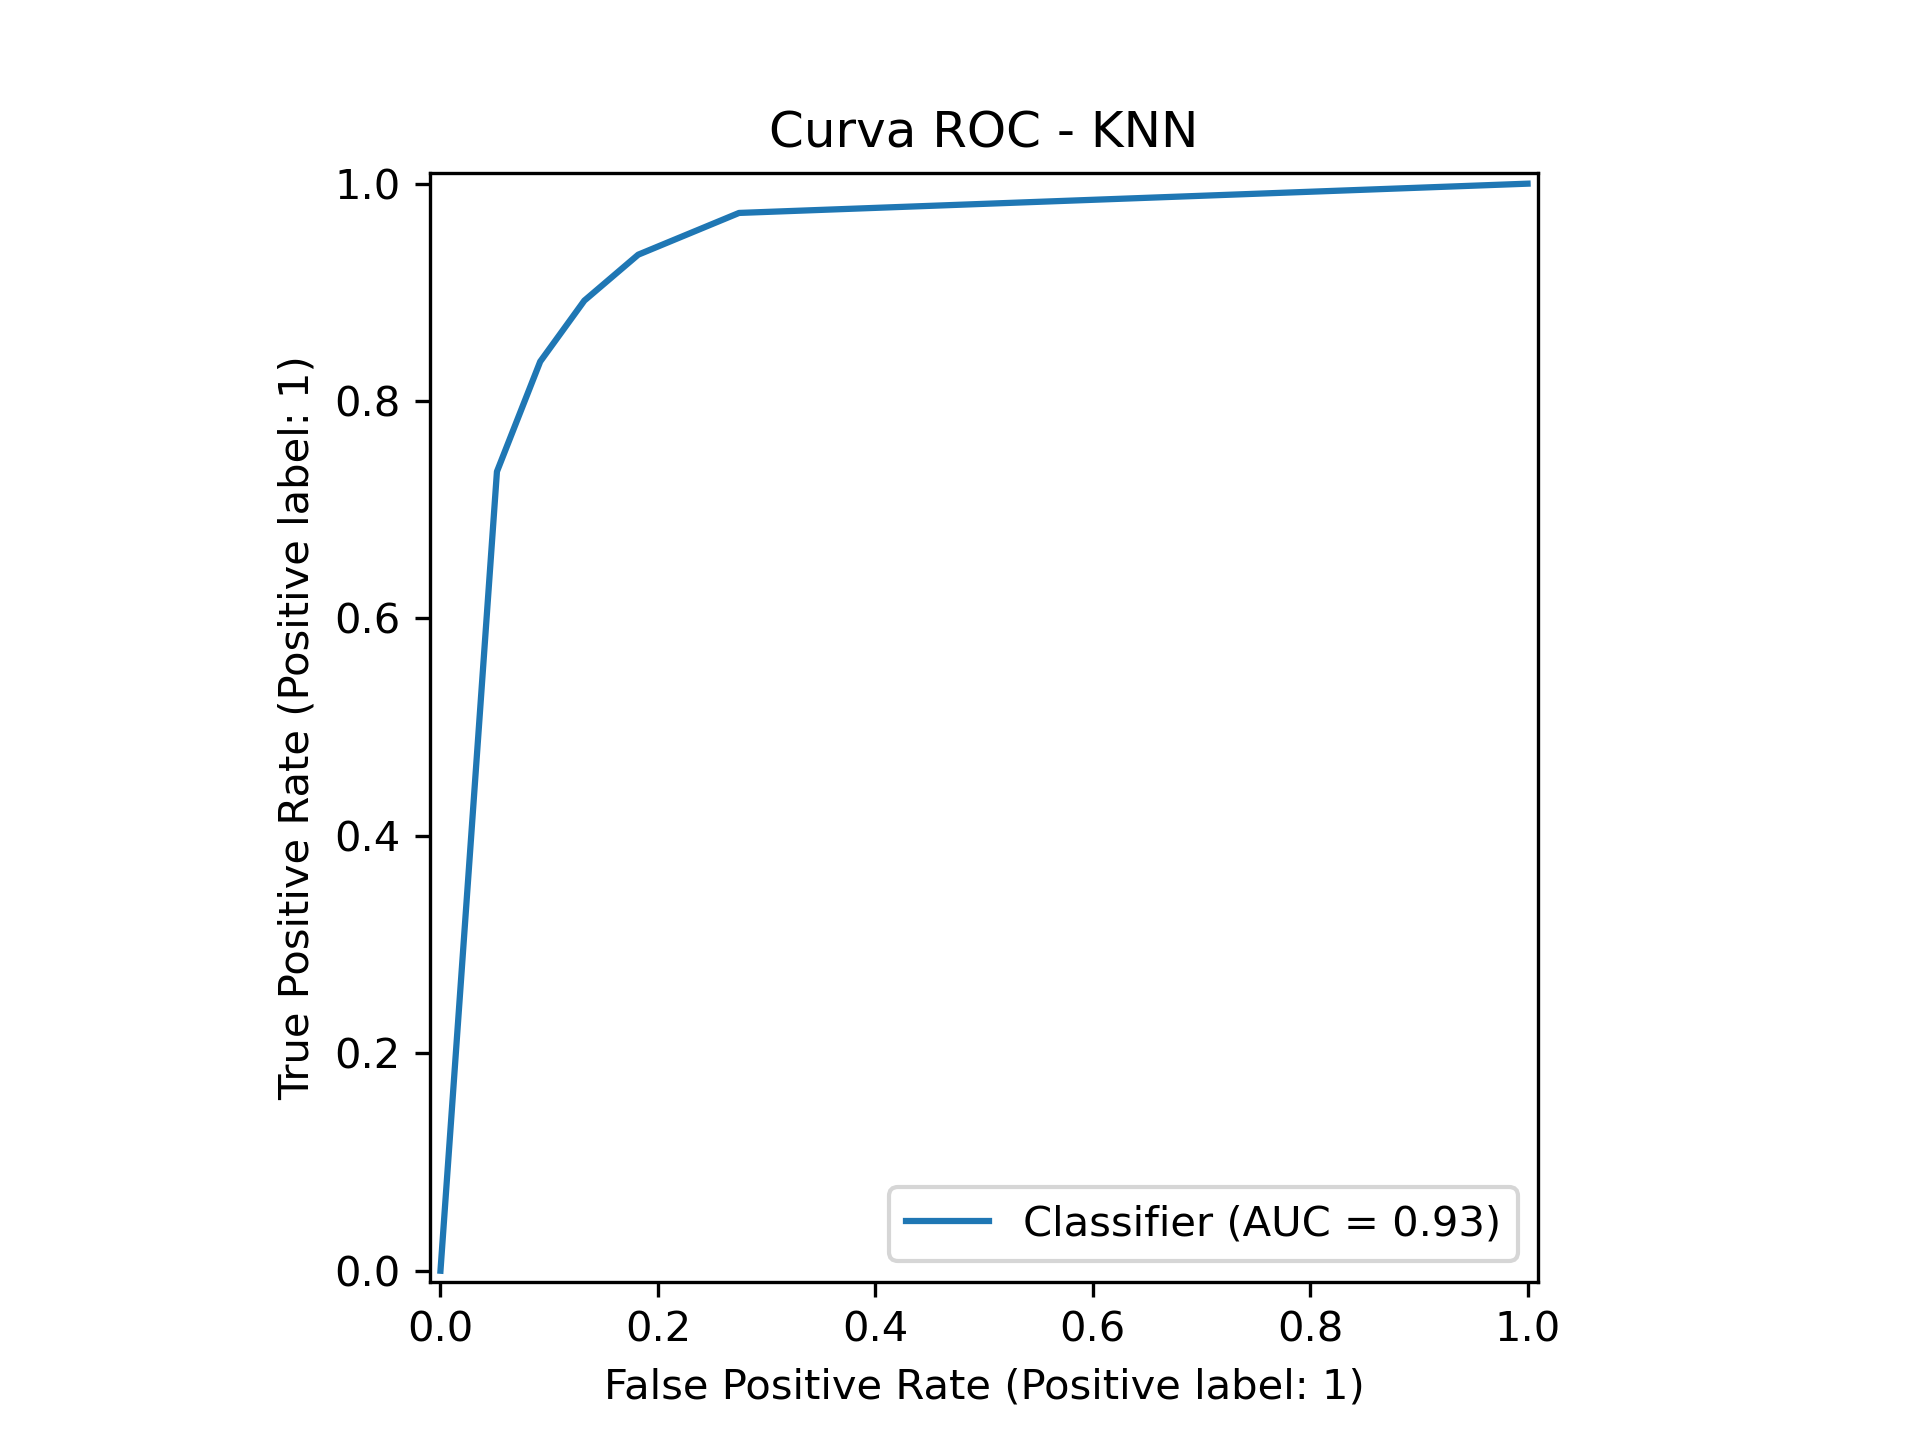
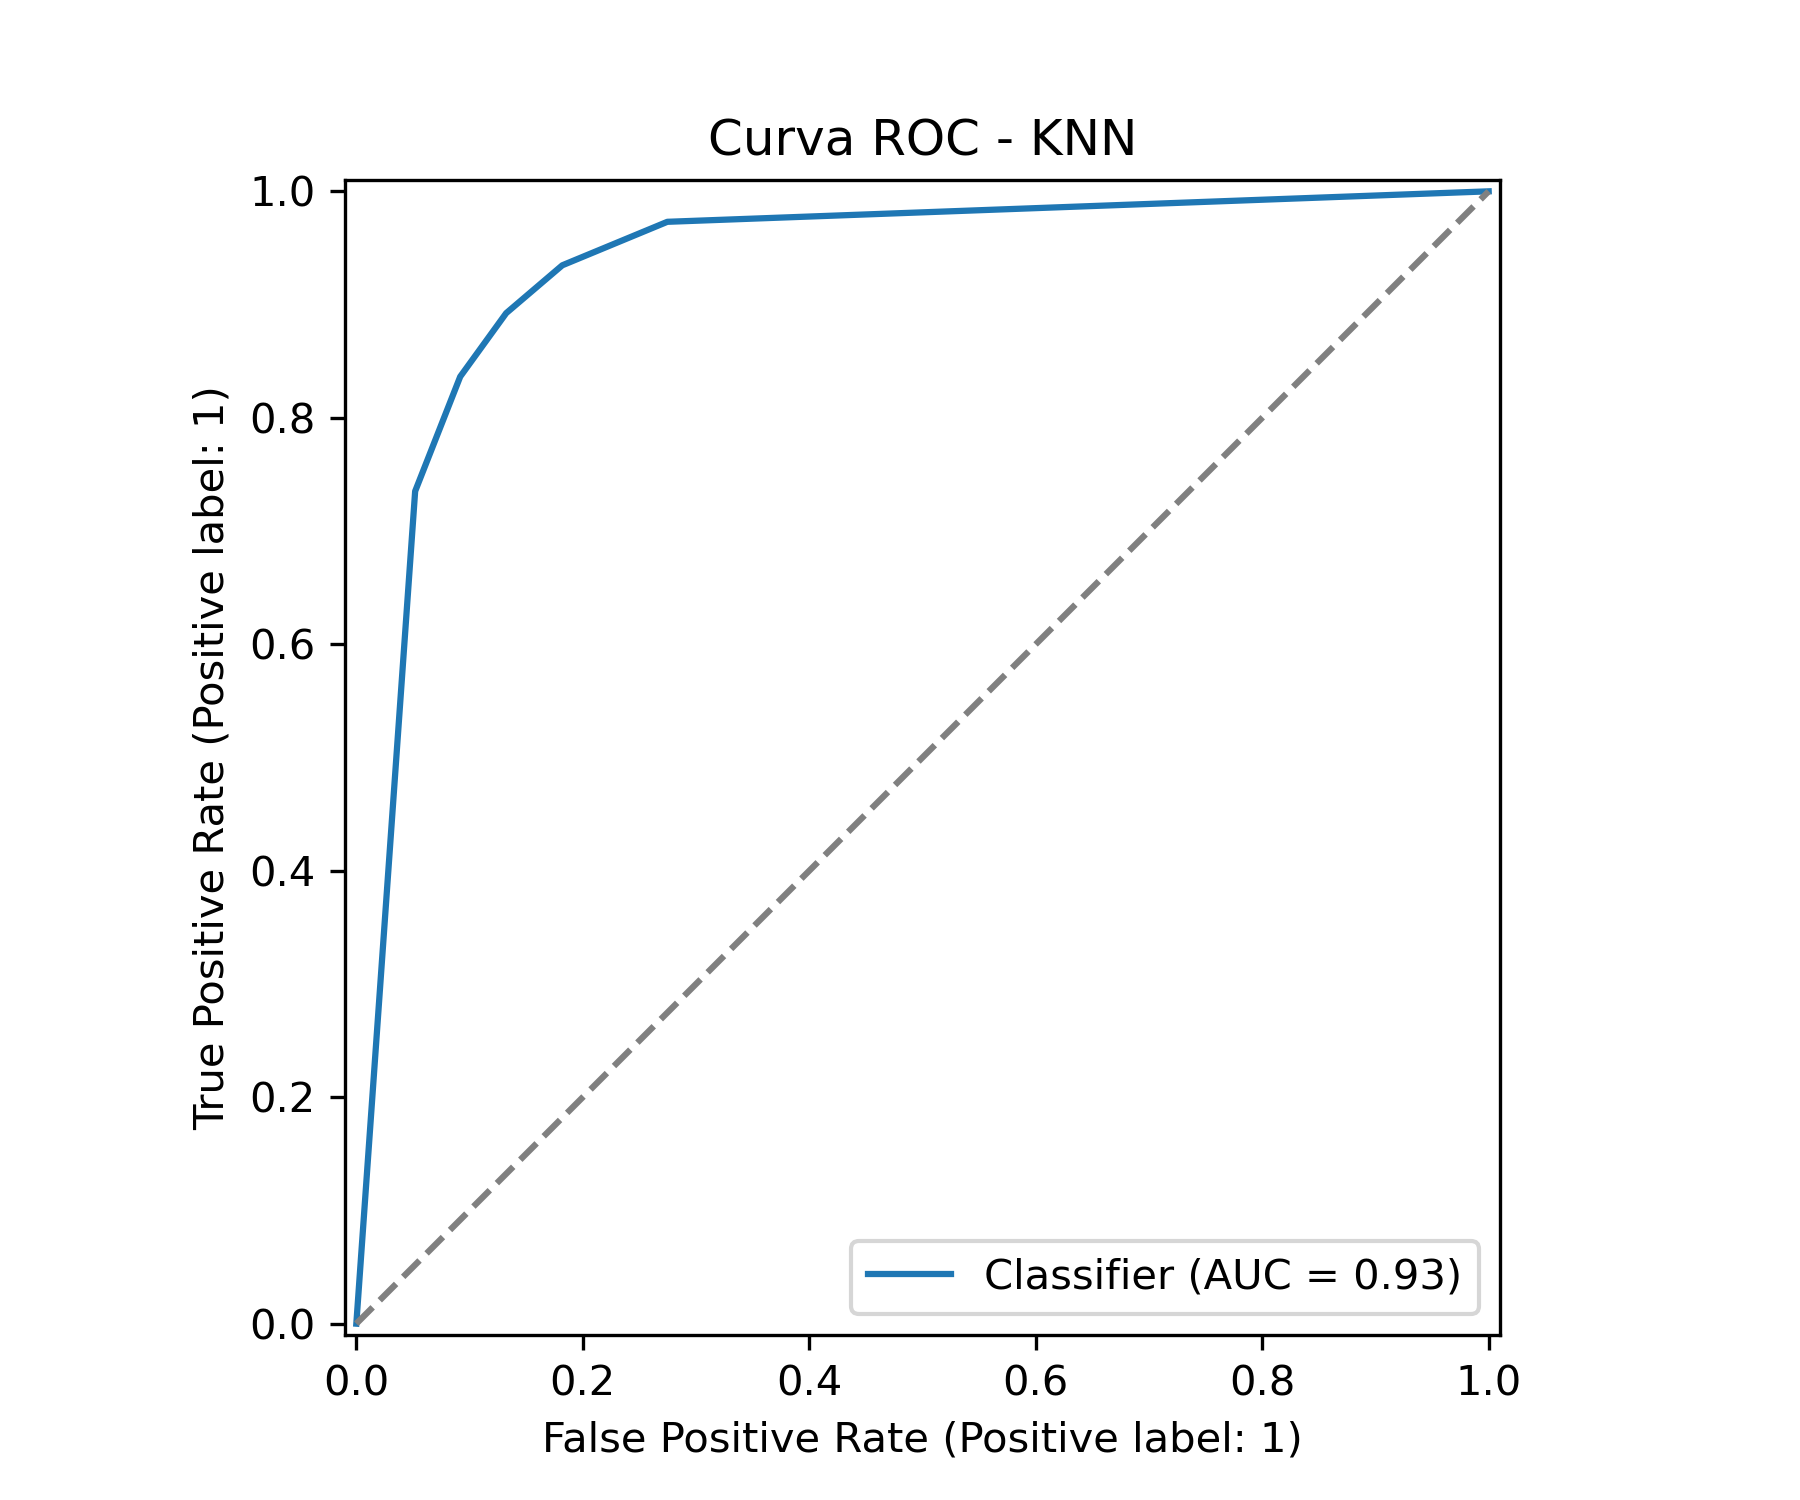
Ajustes para inteligibilidade

diff --git a/knn_v2.py b/knn_v2.py
@@ -20,17 +20,16 @@ folder_train_fake = "/Users/fabioakira/Downloads/fakes_train"
 folder_test_true = "/Users/fabioakira/Downloads/reais_test"
 folder_test_fake = "/Users/fabioakira/Downloads/fakes_test"
 
-# --- Parâmetros de Áudio ---
-N_MFCC = 40       # Número de coeficientes MFCC
-TARGET_SR = 16000 # Sample rate alvo (16000 Hz)
-
-# --- Parâmetros de ML (Ajuste para KNN) ---
-N_VIZINHOS = 5    # Número de vizinhos (K) para o KNN
-
+# Pasta para salvar resultados
 SAVE_FOLDER = "knn_results"
 os.makedirs(SAVE_FOLDER, exist_ok=True)
 
-# --- Funções Auxiliares ---
+# Parâmetros de ML (Ajuste para KNN)
+N_VIZINHOS = 5    # Número de vizinhos (K) para o KNN
+
+# Parâmetros de Áudio
+N_MFCC = 40       # Número de coeficientes MFCC
+TARGET_SR = 16000 # Sample rate alvo (16000 Hz)
 
 def _process_folder(root_folder, label):
     """
@@ -82,9 +81,8 @@ def load_manual_dataset(real_train, fake_train, real_test, fake_test):
     print(f"\nTreino: {len(X_train)} arquivos | Teste: {len(X_test)} arquivos")
     return X_train, y_train, X_test, y_test
 
-# --- Treinamento do Modelo (KNN) ---
 def train_and_save_model():
-    start_time = time.time() 
+    start_time = time.time()
 
     X_train, y_train, X_test, y_test = load_manual_dataset(
         folder_train_true, folder_train_fake,
@@ -95,16 +93,16 @@ def train_and_save_model():
         print("\nERRO: Nenhum arquivo .wav foi encontrado nos conjuntos de treino ou teste!")
         return 
 
-    # Normalização é crucial para KNN
+    # Normalização do KNN
     scaler = StandardScaler()
     X_train_scaled = scaler.fit_transform(X_train)
     X_test_scaled = scaler.transform(X_test)
 
-    # Treinamento do modelo KNN
+    # Treinamento do KNN
     clf = KNeighborsClassifier(n_neighbors=N_VIZINHOS)
     clf.fit(X_train_scaled, y_train)
 
-    # Avaliação
+    # Roda a avaliação com amostras de teste
     y_prob = clf.predict_proba(X_test_scaled)[:, 1]
     y_pred = (y_prob >= 0.5).astype(int)
 
@@ -119,9 +117,9 @@ def train_and_save_model():
     end_time = time.time()
     elapsed_time_sec = end_time - start_time
 
-    # CÁLCULO E FORMATAÇÃO DO TEMPO
+    # Tempo gasto para o script rodar
     minutes = int(elapsed_time_sec // 60)
-    seconds = int(elapsed_time_sec % 60)    
+    seconds = int(elapsed_time_sec % 60)
     time_display = f"{minutes} min {seconds} seg" if minutes > 0 else f"{elapsed_time_sec:.2f} seg"
 
     print("\n=== RESULTADOS DO TREINO (KNN) ===")
@@ -136,45 +134,34 @@ def train_and_save_model():
     print("\nClassification Report:")
     print(classification_report(y_test, y_pred, target_names=["Real", "Fake"]))
 
-    # --- Gráfico da Matriz de Confusão ---
-    #plt.figure(figsize=(6,5))
-    #disp = ConfusionMatrixDisplay(confusion_matrix=cm, display_labels=["Real", "Fake"])
-    #disp.plot(values_format='d')
-    #plt.title("Matriz de Confusão - KNN")
-    #plt.savefig(os.path.join(SAVE_FOLDER, "matriz_confusao_knn.png"), dpi=300)
-    #print("💾 Matriz de confusão salva como matriz_confusao_knn.png")
-    #plt.show()
-
-    # 7. Matrix de Confusão
-    # ================================
-    #cm = confusion_matrix(y_test, y_pred)
+    # Gera o gráfico: matriz de confusão
     plt.figure(figsize=(5,4))
     sns.heatmap(cm, annot=True, fmt="d", cmap="Blues",
         xticklabels=["Real","Fake"],
         yticklabels=["Real","Fake"])
-    plt.title("Confusion Matrix - SVM MFCC")
+    plt.title("Confusion Matrix - KNN, MFCC")
     plt.xlabel("Predicted")
     plt.ylabel("True")
     plt.savefig(os.path.join(SAVE_FOLDER, "matriz_confusao_knn.png"), dpi=300)
     print("💾 Matriz de confusão salva como matriz_confusao_knn.png")
     plt.show()
 
-    # --- Curva ROC ---
+    # Gera o gráfico: curva ROC
     plt.figure(figsize=(6,5))
     ax = plt.gca()
-    ax.plot([0,1], [0,1], "--", color="gray")
-    RocCurveDisplay.from_predictions(y_test, y_prob)
+    RocCurveDisplay.from_predictions(y_test, y_prob, ax=ax)
+    ax.plot([0,1], [0,1], "--", color="gray", label="Aleatório (AUC=0.5)")
     plt.title("Curva ROC - KNN")
     plt.savefig(os.path.join(SAVE_FOLDER, "curva_roc_knn.png"), dpi=300)
     print("💾 Curva ROC salva como curva_roc_knn.png")
     plt.show()
 
-    # Salvar modelo + scaler
+    # Salva modelo + scaler em arquivos .pkl
     joblib.dump(clf, os.path.join(SAVE_FOLDER, "knn_model.pkl"))
     joblib.dump(scaler, os.path.join(SAVE_FOLDER, "scaler_knn.pkl"))
-    print("\n💾 Modelo KNN salvo como 'knn_model.pkl' e scaler 'scaler_knn.pkl'.")
+    print("💾 Modelo KNN salvo como 'knn_model.pkl' e scaler 'scaler_knn.pkl'.")
 
-    # --- Visualização ---
+    # Visualização da distribuição de probabilidades
     plt.figure(figsize=(8, 5))
     plt.hist(y_prob[y_test == 0], bins=15, alpha=0.6, label="Real (0)")
     plt.hist(y_prob[y_test == 1], bins=15, alpha=0.6, label="Fake (1)")
@@ -187,6 +174,6 @@ def train_and_save_model():
     plt.tight_layout()
     plt.show()
 
-# --- Execução ---
+# Execução (main)
 if __name__ == "__main__":
     train_and_save_model()
